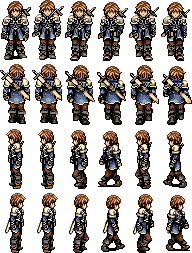
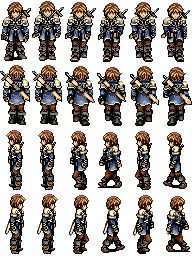
Spritesheet fix
Spritesheet fix

diff --git a/states/play.js b/states/play.js
@@ -31,7 +31,7 @@ var playState = {
 		map.setCollisionBetween(11, 11);
 	
 		// player
-		player = game.add.sprite(game.world.centerX, game.world.centerY, 'player');
+		player = game.add.sprite(game.world.centerX, game.world.centerY, 'player'); 
 		
 		game.physics.enable(player);
 		player.body.collideWorldBounds = true;
@@ -43,10 +43,10 @@ var playState = {
 		cursors = game.input.keyboard.createCursorKeys();
 		
 		// animations
-		player.animations.add('left',	[13, 14, 15, 16, 17, 18], 10, true);
-		player.animations.add('right', 	[13, 14, 15, 16, 17, 18], 10, true);
-		player.animations.add('up', 	[8, 9, 10, 11, 12], 10, true);
-		player.animations.add('down', 	[2, 3, 4, 5, 6], 	10, true);
+		player.animations.add('left',	[13, 14, 15, 16, 17], 10, true);
+		player.animations.add('right',	[19, 20, 21, 22], 10, true);
+		player.animations.add('up', 	[8, 9, 10, 11], 10, true);
+		player.animations.add('down', 	[2, 3, 4, 5], 	10, true);
 		 
 	},
 	update: function() {

diff --git a/states/load.js b/states/load.js
@@ -7,7 +7,7 @@ var loadState = {
 		
 		game.load.image('background', 'assets/images/background.jpg');
 		
-		game.load.spritesheet('player', 'assets/images/player.png', 32, 64);
+		game.load.spritesheet('player', 'assets/images/player.png', 32, 64, 23);
 		
 		game.load.tilemap('firstlevel', 'assets/tilemap/arena.json', null, Phaser.Tilemap.TILED_JSON);
 		game.load.image('groundset', 'assets/tileset/ground.png');
